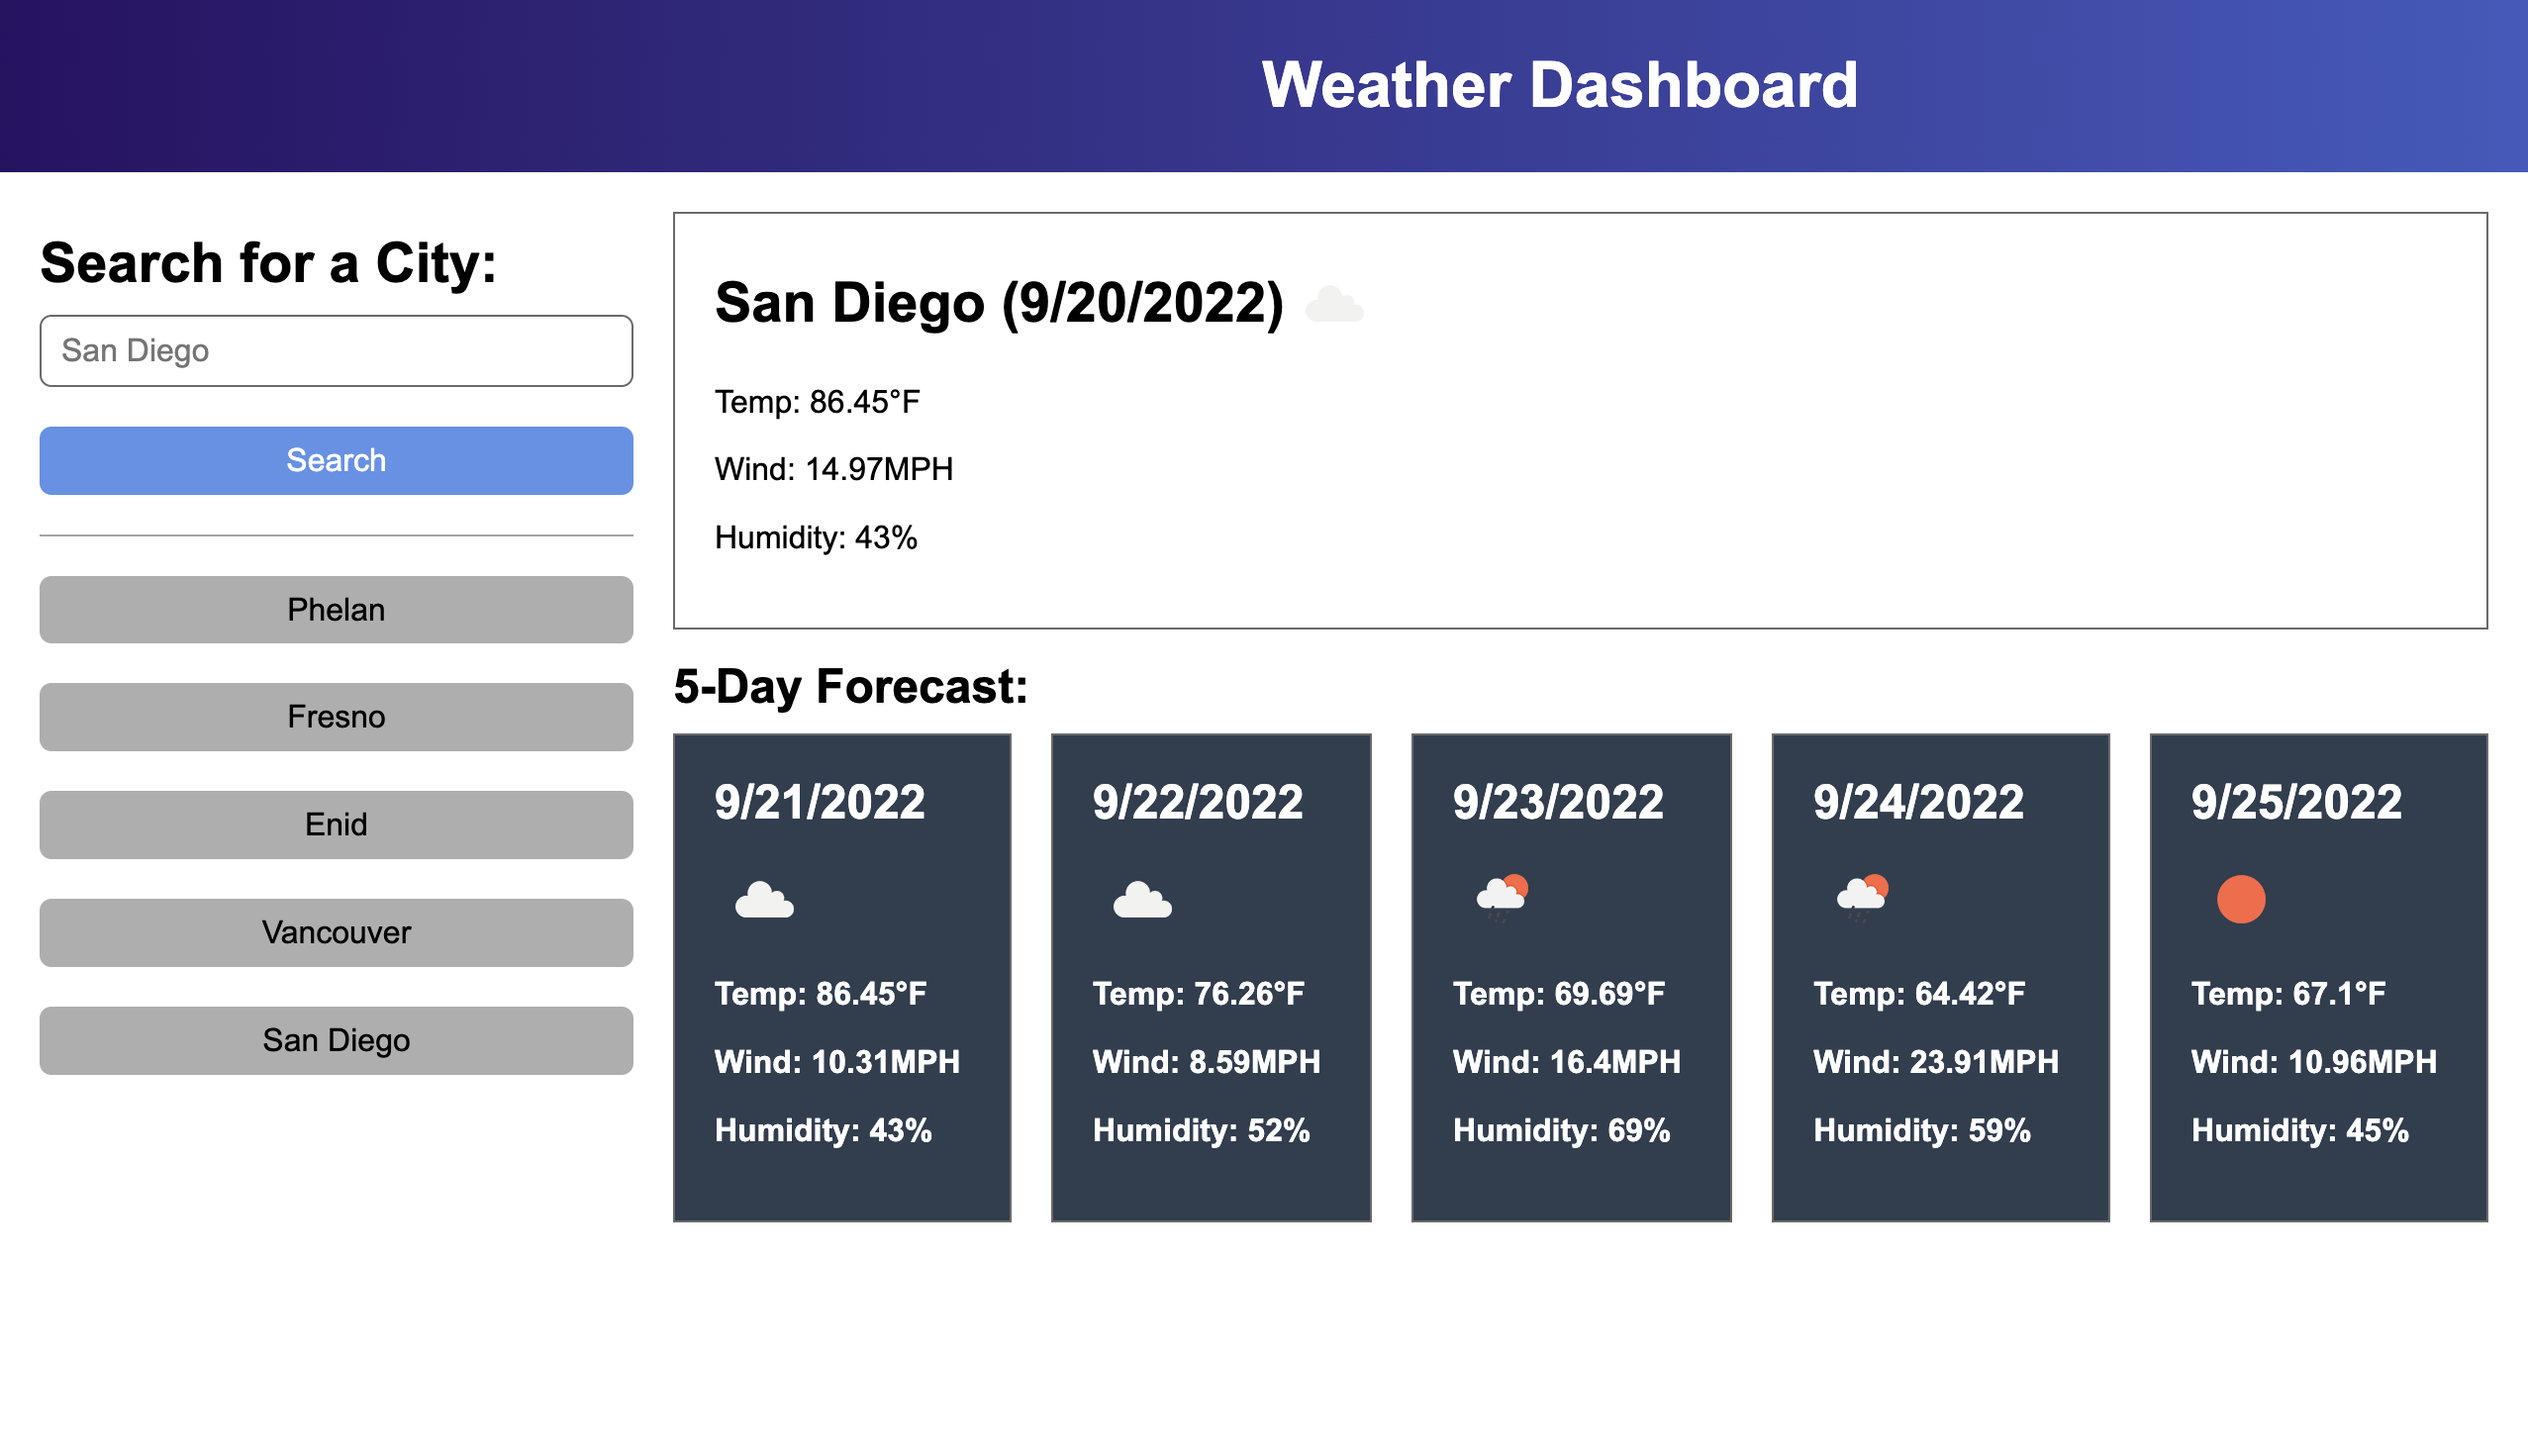
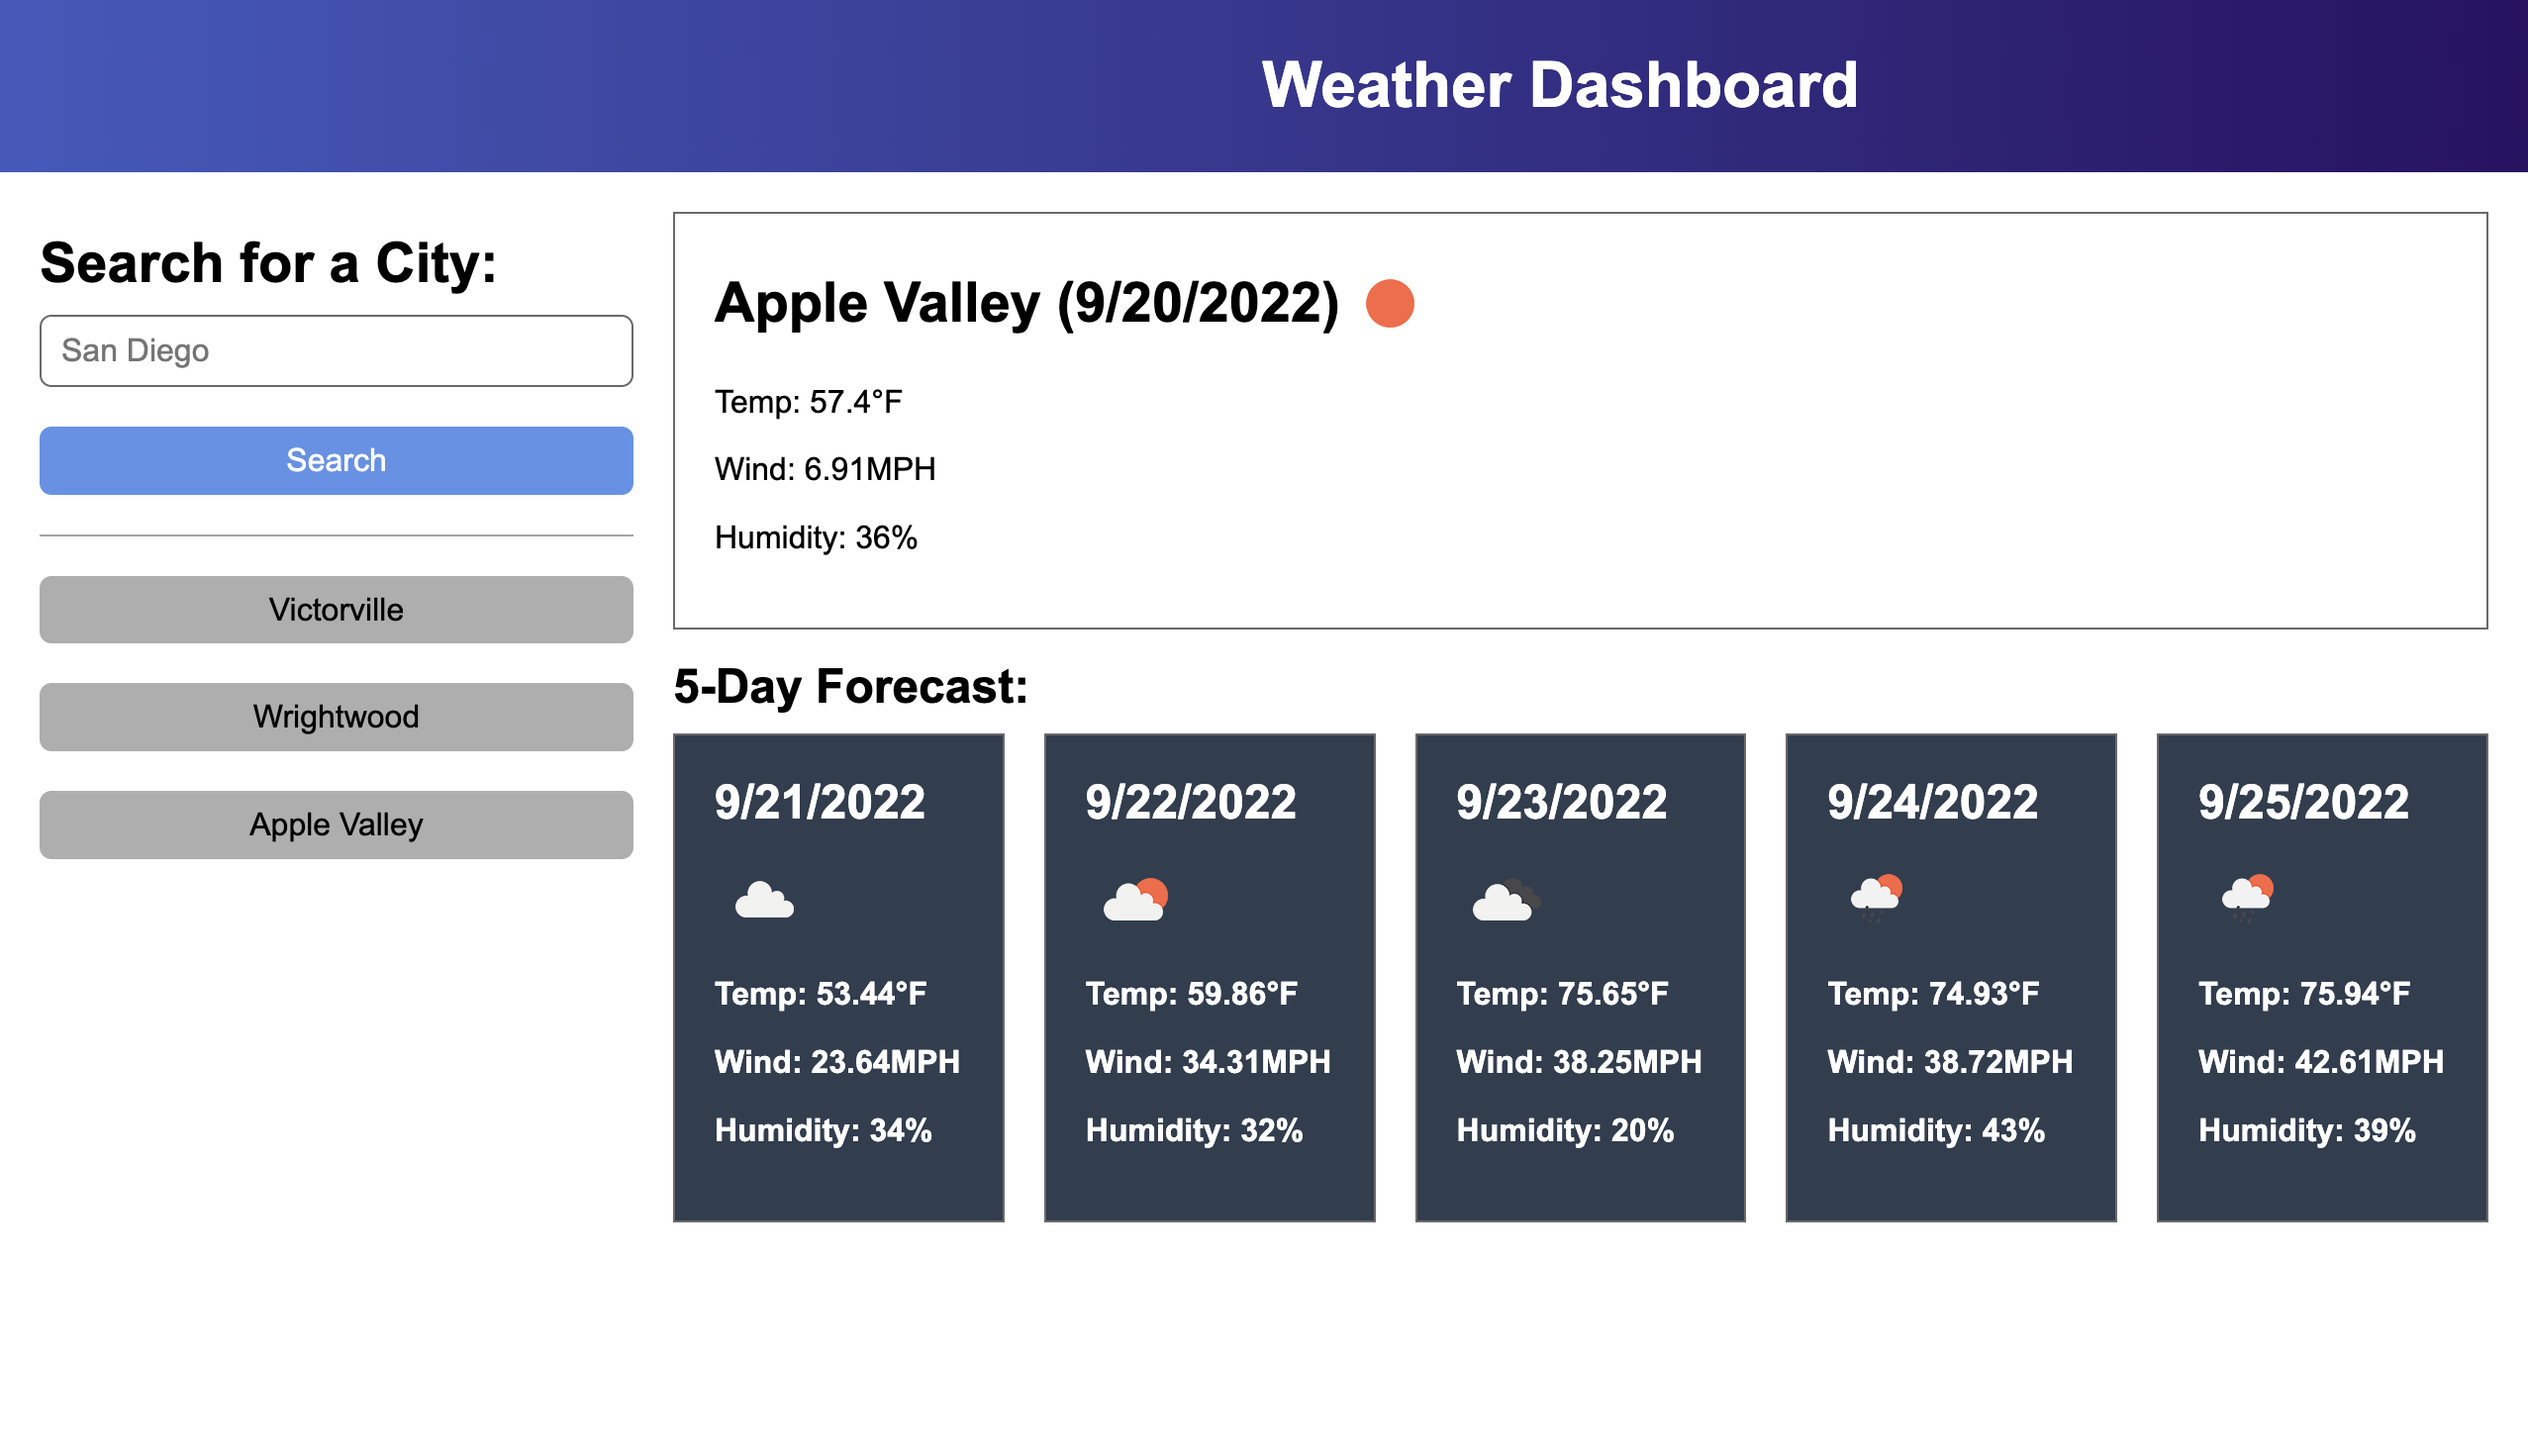
Screenshot updated

diff --git a/assets/css/style.css b/assets/css/style.css
@@ -15,7 +15,7 @@ body {
 header h1 { 
     margin: 0;
     padding: 25px 0;
-    background: linear-gradient(to left, #465ab8, #261360); 
+    background: linear-gradient(to right, #465ab8, #261360); 
     color: #fff;
     font-weight: bold;
     text-align: center;

diff --git a/README.md b/README.md
@@ -1,2 +1,32 @@
 # 06-bootchallenge-api-weather-dashboard
-A multi-city weather dashboard powered by the OpenWeather API
+Bootcamp Challenge Assignment 6: Create a weather dashboard that displays current and forecast weather for a given city
+
+<br />
+
+## Bootcamp Challenge Assignment - Module 06
+The challenge for Module 6 was to use OpenWeather's API to display current and forecast weather for cities entered into a form or saved from localStorage. The date is being displayed using the day.js API, and the code is built fully in Javascript.
+
+<br />
+
+## Installation
+
+The completed challenge can be viewed at: <br />
+https://jennyfletch.github.io/06-bootchallenge-api-weather-dashboard 
+
+<br />
+
+![Alt text](./assets/images/screenshot.png?raw=true "Screenshot of the Weather Dashboard")
+
+<br />
+
+## MIT License
+
+**Copyright (c) 2022**
+
+Permission is hereby granted, free of charge, to any person obtaining a copy of this software and associated documentation files (the "Software"), to deal in the Software without restriction, including without limitation the rights to use, copy, modify, merge, publish, distribute, sublicense, and/or sell copies of the Software, and to permit persons to whom the Software is furnished to do so, subject to the following conditions:
+
+The above copyright notice and this permission notice shall be included in all copies or substantial portions of the Software.
+
+THE SOFTWARE IS PROVIDED "AS IS", WITHOUT WARRANTY OF ANY KIND, EXPRESS OR IMPLIED, INCLUDING BUT NOT LIMITED TO THE WARRANTIES OF MERCHANTABILITY,FITNESS FOR A PARTICULAR PURPOSE AND NONINFRINGEMENT. IN NO EVENT SHALL THE AUTHORS OR COPYRIGHT HOLDERS BE LIABLE FOR ANY CLAIM, DAMAGES OR OTHER LIABILITY, WHETHER IN AN ACTION OF CONTRACT, TORT OR OTHERWISE, ARISING FROM, OUT OF OR IN CONNECTION WITH THE SOFTWARE OR THE USE OR OTHER DEALINGS IN THESOFTWARE.
+
+
